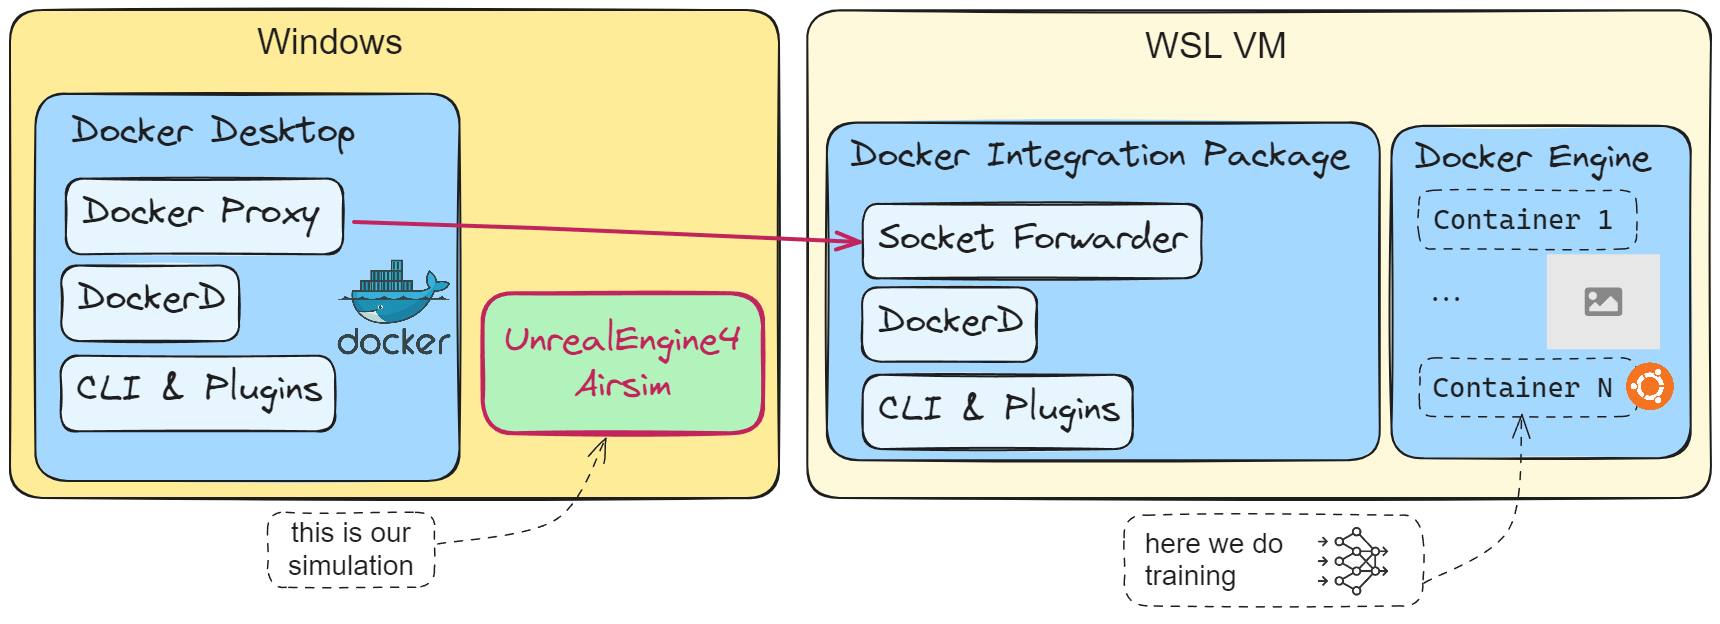
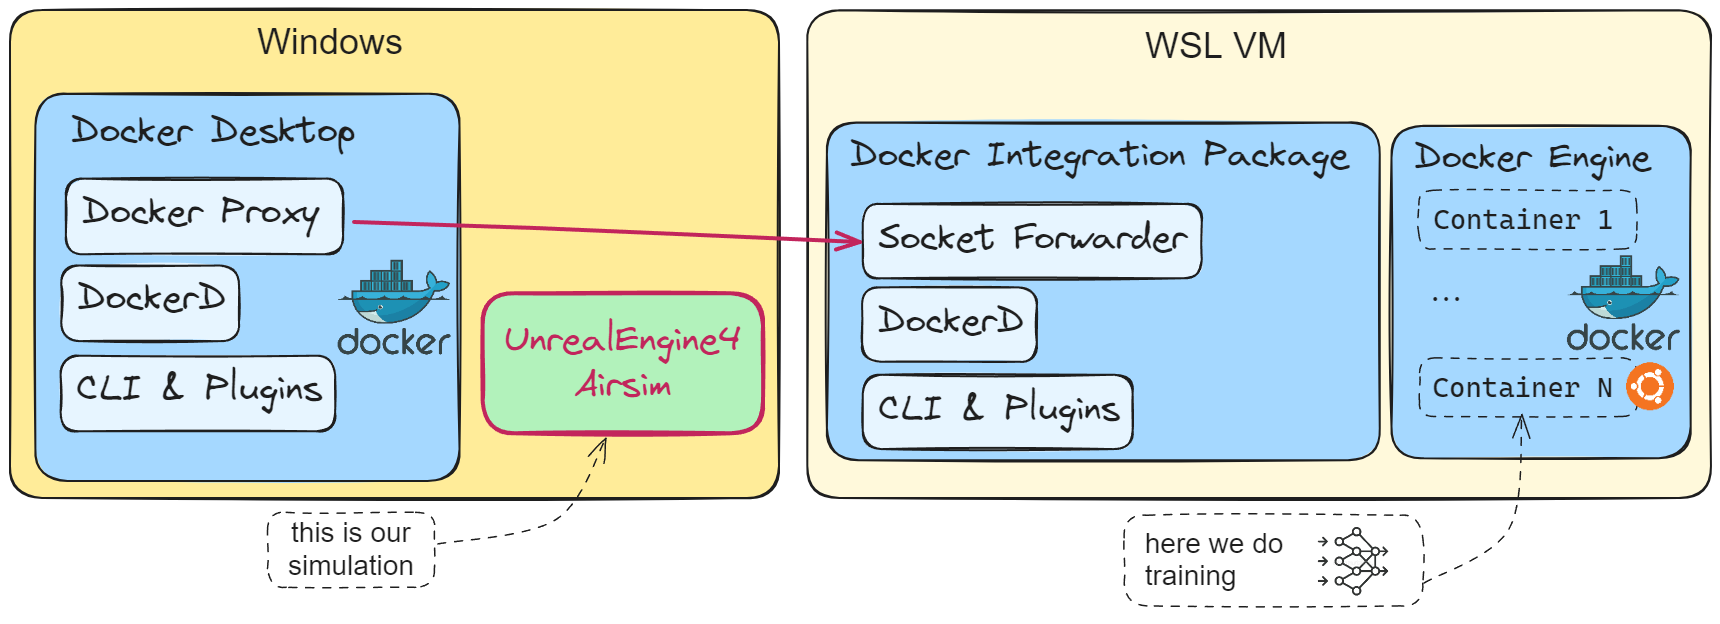
add image

Changed region(s): [[0.8936, 0.3958, 0.986, 0.5785], [0.2157, 0.4263, 0.2465, 0.4872]]

diff --git a/README.md b/README.md
@@ -51,6 +51,9 @@ This repository uses a **Docker-based setup** for training a reinforcement learn
 - **Development Environment**: Use the `.devcontainer` feature in **VS Code** to run the development container (configured with `--net=host`).
   - More info on dev containers: [VS Code Dev Containers Documentation](https://code.visualstudio.com/docs/devcontainers/containers)
 
+
+<img src="https://github.com/IrDIE/AirSim_droneRL/blob/itmo_branch/readme_pictures/docker.png" width="1720" height="624"/> 
+
 ---
 
 #### 1. Connecting to AirSim from the Container
